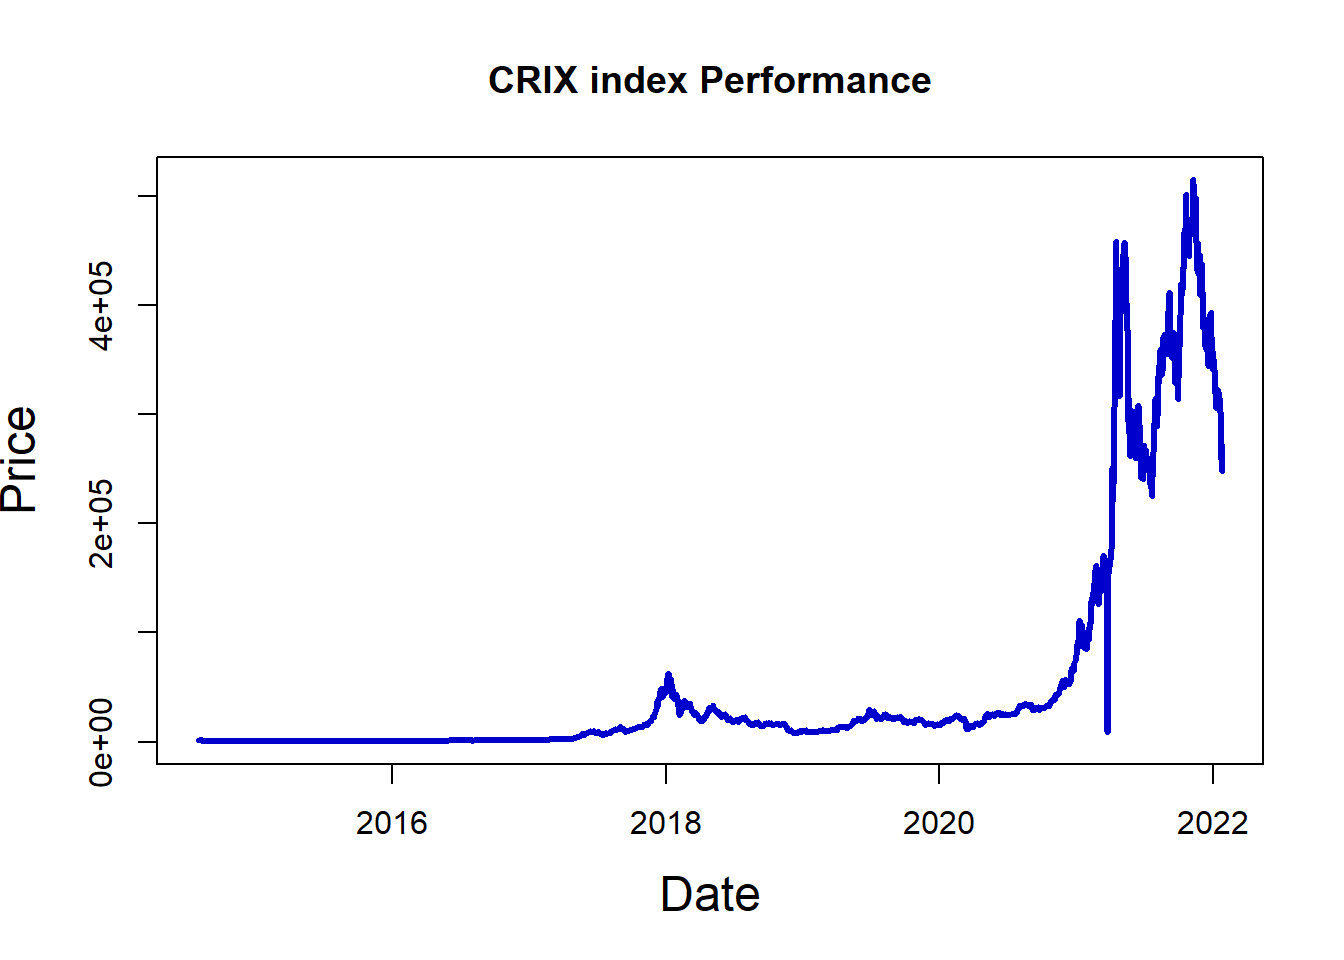
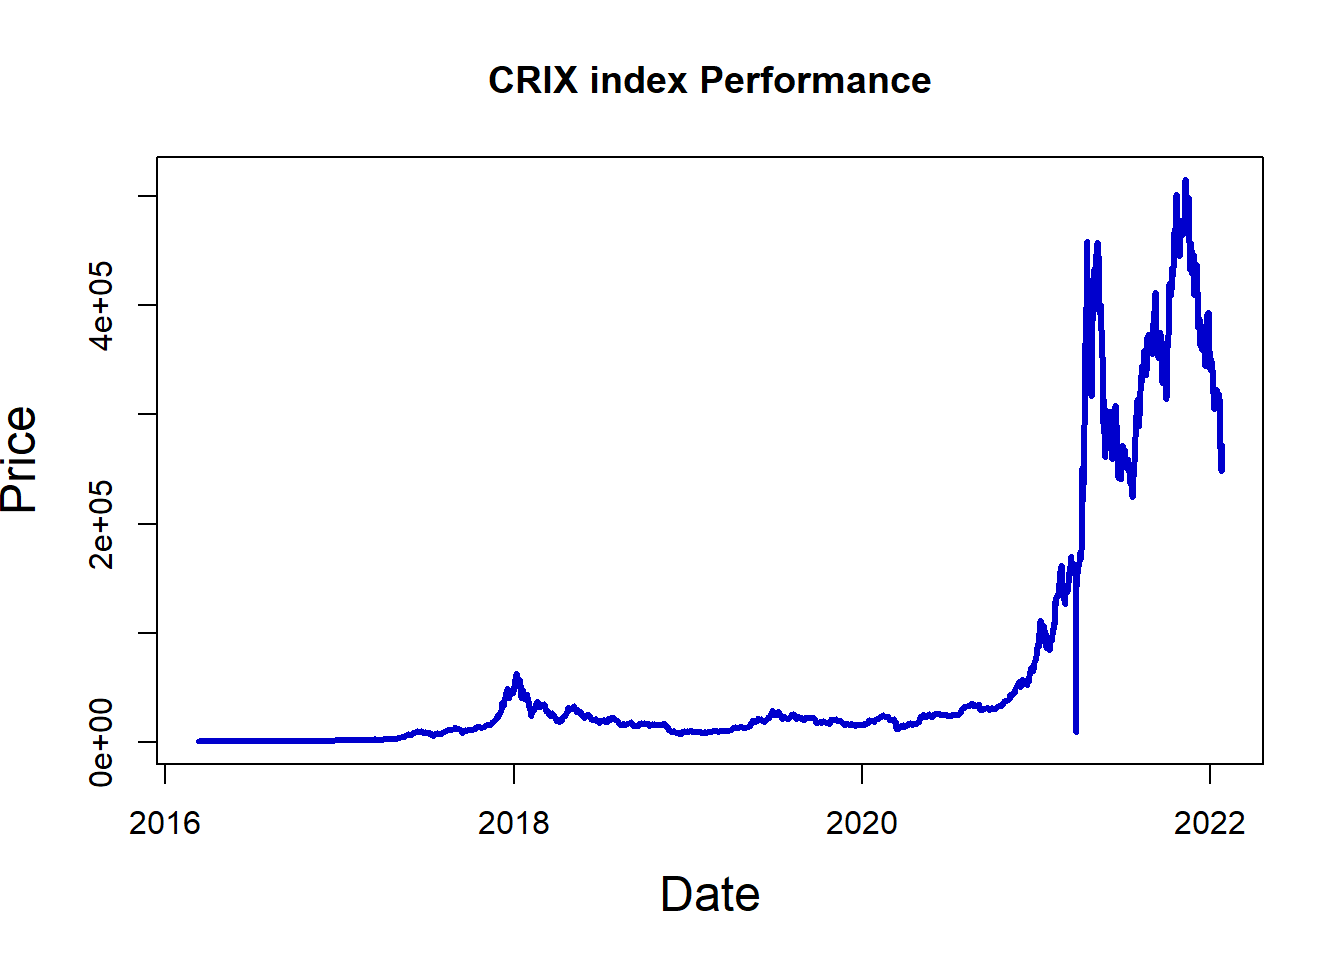
made changes to plots, about page

diff --git a/_site/index.html b/_site/index.html
@@ -232,12 +232,15 @@ pre > code.sourceCode > span > a:first-child::before { text-decoration: underlin
 <summary>Code</summary>
 <div class="sourceCode cell-code" id="cb2"><pre class="sourceCode r code-with-copy"><code class="sourceCode r"><span id="cb2-1"><a href="#cb2-1" aria-hidden="true" tabindex="-1"></a>json_file <span class="ot">&lt;-</span> <span class="st">"http://data.thecrix.de/data/crix.json"</span></span>
 <span id="cb2-2"><a href="#cb2-2" aria-hidden="true" tabindex="-1"></a>data_crix <span class="ot">&lt;-</span> <span class="fu">fromJSON</span>(json_file)</span>
-<span id="cb2-3"><a href="#cb2-3" aria-hidden="true" tabindex="-1"></a></span>
-<span id="cb2-4"><a href="#cb2-4" aria-hidden="true" tabindex="-1"></a>data_btc <span class="ot">&lt;-</span> <span class="fu">read.csv</span>(<span class="st">"H:</span><span class="sc">\\</span><span class="st">My Drive</span><span class="sc">\\</span><span class="st">Matematica</span><span class="sc">\\</span><span class="st">Proiect Analiza Financiara</span><span class="sc">\\</span><span class="st">Bitcoin Historical Data (1).csv"</span>)</span>
-<span id="cb2-5"><a href="#cb2-5" aria-hidden="true" tabindex="-1"></a>data_btc <span class="ot">&lt;-</span> data_btc[<span class="sc">-</span><span class="fu">c</span>(<span class="dv">3</span><span class="sc">:</span><span class="dv">7</span>)]</span>
-<span id="cb2-6"><a href="#cb2-6" aria-hidden="true" tabindex="-1"></a></span>
-<span id="cb2-7"><a href="#cb2-7" aria-hidden="true" tabindex="-1"></a>data_eth <span class="ot">&lt;-</span> <span class="fu">read.csv</span>(<span class="st">"H:</span><span class="sc">\\</span><span class="st">My Drive</span><span class="sc">\\</span><span class="st">Matematica</span><span class="sc">\\</span><span class="st">Proiect Analiza Financiara</span><span class="sc">\\</span><span class="st">Ethereum Historical Data.csv"</span>)</span>
-<span id="cb2-8"><a href="#cb2-8" aria-hidden="true" tabindex="-1"></a>data_eth <span class="ot">&lt;-</span> data_eth[<span class="sc">-</span><span class="fu">c</span>(<span class="dv">3</span><span class="sc">:</span><span class="dv">7</span>)]</span></code><button title="Copy to Clipboard" class="code-copy-button"><i class="bi"></i></button></pre></div>
+<span id="cb2-3"><a href="#cb2-3" aria-hidden="true" tabindex="-1"></a>data_crix <span class="ot">&lt;-</span> <span class="fu">tail</span>(data_crix, <span class="dv">2148</span>)</span>
+<span id="cb2-4"><a href="#cb2-4" aria-hidden="true" tabindex="-1"></a></span>
+<span id="cb2-5"><a href="#cb2-5" aria-hidden="true" tabindex="-1"></a></span>
+<span id="cb2-6"><a href="#cb2-6" aria-hidden="true" tabindex="-1"></a>data_btc <span class="ot">&lt;-</span> <span class="fu">read.csv</span>(<span class="st">"H:</span><span class="sc">\\</span><span class="st">My Drive</span><span class="sc">\\</span><span class="st">Matematica</span><span class="sc">\\</span><span class="st">Proiect Analiza Financiara</span><span class="sc">\\</span><span class="st">Bitcoin Historical Data (1).csv"</span>)</span>
+<span id="cb2-7"><a href="#cb2-7" aria-hidden="true" tabindex="-1"></a>data_btc <span class="ot">&lt;-</span> data_btc[<span class="sc">-</span><span class="fu">c</span>(<span class="dv">3</span><span class="sc">:</span><span class="dv">7</span>)]</span>
+<span id="cb2-8"><a href="#cb2-8" aria-hidden="true" tabindex="-1"></a>data_btc <span class="ot">&lt;-</span> <span class="fu">head</span>(data_btc, <span class="dv">2148</span>)</span>
+<span id="cb2-9"><a href="#cb2-9" aria-hidden="true" tabindex="-1"></a></span>
+<span id="cb2-10"><a href="#cb2-10" aria-hidden="true" tabindex="-1"></a>data_eth <span class="ot">&lt;-</span> <span class="fu">read.csv</span>(<span class="st">"H:</span><span class="sc">\\</span><span class="st">My Drive</span><span class="sc">\\</span><span class="st">Matematica</span><span class="sc">\\</span><span class="st">Proiect Analiza Financiara</span><span class="sc">\\</span><span class="st">Ethereum Historical Data.csv"</span>)</span>
+<span id="cb2-11"><a href="#cb2-11" aria-hidden="true" tabindex="-1"></a>data_eth <span class="ot">&lt;-</span> data_eth[<span class="sc">-</span><span class="fu">c</span>(<span class="dv">3</span><span class="sc">:</span><span class="dv">7</span>)]</span></code><button title="Copy to Clipboard" class="code-copy-button"><i class="bi"></i></button></pre></div>
 </details>
 </div>
 <p>Am format seturile de date astfel încât să le pot manipula cu funcțiile din R.</p>

diff --git a/_site/about.html b/_site/about.html
@@ -20,40 +20,6 @@ ul.task-list li input[type="checkbox"] {
   margin: 0 0.8em 0.2em -1em; /* quarto-specific, see https://github.com/quarto-dev/quarto-cli/issues/4556 */ 
   vertical-align: middle;
 }
-/* CSS for syntax highlighting */
-pre > code.sourceCode { white-space: pre; position: relative; }
-pre > code.sourceCode > span { display: inline-block; line-height: 1.25; }
-pre > code.sourceCode > span:empty { height: 1.2em; }
-.sourceCode { overflow: visible; }
-code.sourceCode > span { color: inherit; text-decoration: inherit; }
-div.sourceCode { margin: 1em 0; }
-pre.sourceCode { margin: 0; }
-@media screen {
-div.sourceCode { overflow: auto; }
-}
-@media print {
-pre > code.sourceCode { white-space: pre-wrap; }
-pre > code.sourceCode > span { text-indent: -5em; padding-left: 5em; }
-}
-pre.numberSource code
-  { counter-reset: source-line 0; }
-pre.numberSource code > span
-  { position: relative; left: -4em; counter-increment: source-line; }
-pre.numberSource code > span > a:first-child::before
-  { content: counter(source-line);
-    position: relative; left: -1em; text-align: right; vertical-align: baseline;
-    border: none; display: inline-block;
-    -webkit-touch-callout: none; -webkit-user-select: none;
-    -khtml-user-select: none; -moz-user-select: none;
-    -ms-user-select: none; user-select: none;
-    padding: 0 4px; width: 4em;
-  }
-pre.numberSource { margin-left: 3em;  padding-left: 4px; }
-div.sourceCode
-  {   }
-@media screen {
-pre > code.sourceCode > span > a:first-child::before { text-decoration: underline; }
-}
 </style>
 
 
@@ -157,17 +123,12 @@ pre > code.sourceCode > span > a:first-child::before { text-decoration: underlin
 
 </header>
 
-<p>About this site</p>
-<div class="cell">
-<div class="sourceCode cell-code" id="cb1"><pre class="sourceCode r code-with-copy"><code class="sourceCode r"><span id="cb1-1"><a href="#cb1-1" aria-hidden="true" tabindex="-1"></a><span class="dv">1</span> <span class="sc">+</span> <span class="dv">1</span></span></code><button title="Copy to Clipboard" class="code-copy-button"><i class="bi"></i></button></pre></div>
-<div class="cell-output cell-output-stdout">
-<pre><code>[1] 2</code></pre>
-</div>
-</div>
+<p>Site realizat pentru prezentarea proiectului final la cursul Matematici Financiare, anul III, semestrul 2, Facultatea de Matematică și Informatică, Universitatea București.</p>
+<p><i>Ce este roșie și miroase ca o vopsea albastră?</i></p><i>
 
 
 
-</main> <!-- /main -->
+</i></main><i> <!-- /main -->
 <script id="quarto-html-after-body" type="application/javascript">
 window.document.addEventListener("DOMContentLoaded", function (event) {
   const toggleBodyColorMode = (bsSheetEl) => {
@@ -401,8 +362,8 @@ window.document.addEventListener("DOMContentLoaded", function (event) {
   }
 });
 </script>
-</div> <!-- /content -->
+</i></div><i> <!-- /content -->
 
 
 
-</body></html>
+</i></body></html>
